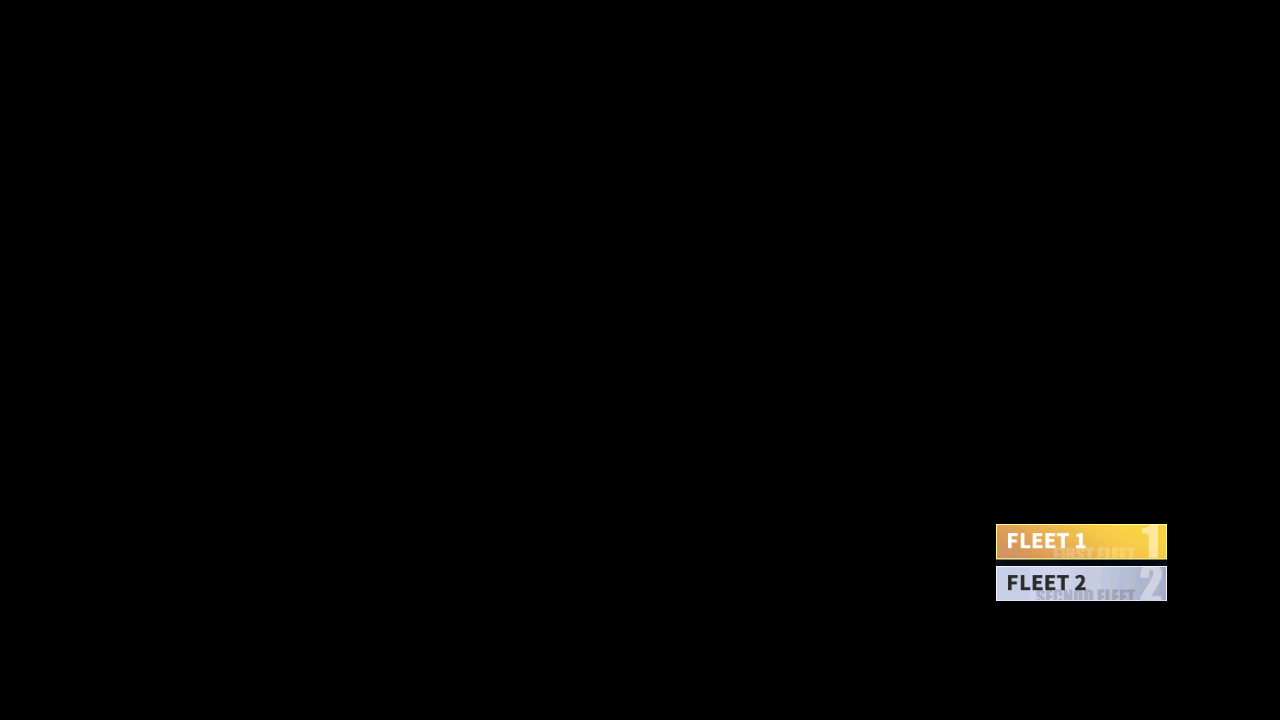
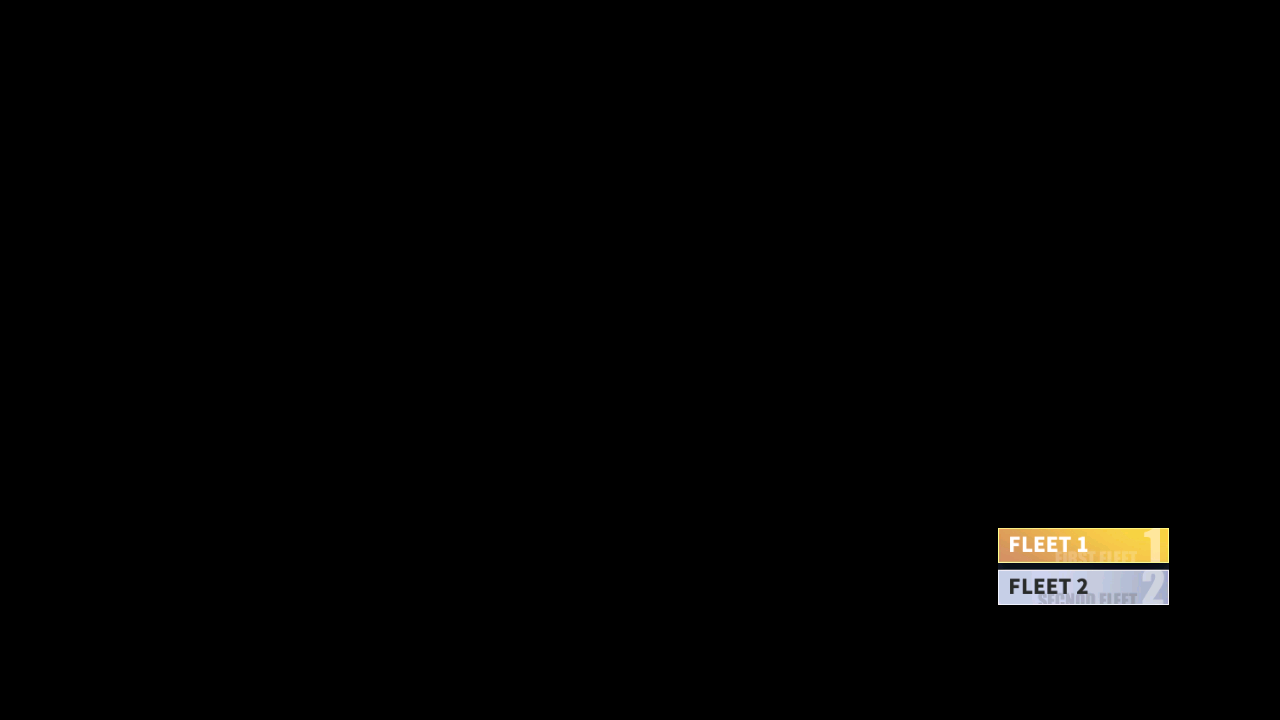
Fix: [EN] sub fleet not handled, map/SUBMARINE_* assets updated

Changed region(s): [[0.7812, 0.7028, 0.9375, 0.8556]]

diff --git a/module/map/assets.py b/module/map/assets.py
@@ -21,9 +21,9 @@ MAP_CAT_ATTACK = Button(area={'cn': (1237, 103, 1252, 153), 'en': (1237, 103, 12
 MAP_OFFENSIVE = Button(area={'cn': (1148, 653, 1262, 705), 'en': (1147, 652, 1263, 701), 'jp': (1147, 652, 1263, 706), 'tw': (1148, 653, 1262, 705)}, color={'cn': (234, 180, 108), 'en': (234, 183, 108), 'jp': (233, 184, 105), 'tw': (234, 180, 108)}, button={'cn': (1148, 653, 1262, 705), 'en': (1147, 652, 1263, 701), 'jp': (1147, 652, 1263, 706), 'tw': (1148, 653, 1262, 705)}, file={'cn': './assets/cn/map/MAP_OFFENSIVE.png', 'en': './assets/en/map/MAP_OFFENSIVE.png', 'jp': './assets/jp/map/MAP_OFFENSIVE.png', 'tw': './assets/tw/map/MAP_OFFENSIVE.png'})
 MAP_PREPARATION = Button(area={'cn': (854, 488, 1052, 548), 'en': (852, 489, 1054, 553), 'jp': (850, 485, 1051, 548), 'tw': (854, 488, 1052, 548)}, color={'cn': (236, 186, 115), 'en': (234, 179, 93), 'jp': (232, 181, 101), 'tw': (236, 186, 115)}, button={'cn': (854, 488, 1052, 548), 'en': (852, 489, 1054, 553), 'jp': (850, 485, 1051, 548), 'tw': (854, 488, 1052, 548)}, file={'cn': './assets/cn/map/MAP_PREPARATION.png', 'en': './assets/en/map/MAP_PREPARATION.png', 'jp': './assets/jp/map/MAP_PREPARATION.png', 'tw': './assets/tw/map/MAP_PREPARATION.png'})
 MAP_PREPARATION_CANCEL = Button(area={'cn': (234, 12, 278, 47), 'en': (234, 12, 278, 47), 'jp': (234, 12, 278, 47), 'tw': (234, 12, 278, 47)}, color={'cn': (45, 46, 69), 'en': (45, 46, 69), 'jp': (45, 46, 69), 'tw': (45, 46, 69)}, button={'cn': (234, 12, 278, 47), 'en': (234, 12, 278, 47), 'jp': (234, 12, 278, 47), 'tw': (234, 12, 278, 47)}, file={'cn': './assets/cn/map/MAP_PREPARATION_CANCEL.png', 'en': './assets/en/map/MAP_PREPARATION_CANCEL.png', 'jp': './assets/jp/map/MAP_PREPARATION_CANCEL.png', 'tw': './assets/tw/map/MAP_PREPARATION_CANCEL.png'})
-SUBMARINE_BAR = Button(area={'cn': (1015, 525, 1186, 602), 'en': (996, 524, 1167, 601), 'jp': (998, 528, 1169, 605), 'tw': (998, 528, 1169, 605)}, color={'cn': (193, 178, 146), 'en': (193, 177, 144), 'jp': (191, 176, 145), 'tw': (192, 177, 145)}, button={'cn': (1015, 525, 1186, 602), 'en': (996, 524, 1167, 601), 'jp': (998, 528, 1169, 605), 'tw': (998, 528, 1169, 605)}, file={'cn': './assets/cn/map/SUBMARINE_BAR.png', 'en': './assets/en/map/SUBMARINE_BAR.png', 'jp': './assets/jp/map/SUBMARINE_BAR.png', 'tw': './assets/tw/map/SUBMARINE_BAR.png'})
-SUBMARINE_CHOOSE = Button(area={'cn': (1026, 448, 1088, 505), 'en': (1004, 447, 1067, 504), 'jp': (1008, 450, 1072, 508), 'tw': (1009, 451, 1071, 508)}, color={'cn': (200, 157, 99), 'en': (197, 148, 82), 'jp': (197, 157, 101), 'tw': (209, 165, 104)}, button={'cn': (1026, 448, 1088, 505), 'en': (1004, 447, 1067, 504), 'jp': (1008, 450, 1072, 508), 'tw': (1009, 451, 1071, 508)}, file={'cn': './assets/cn/map/SUBMARINE_CHOOSE.png', 'en': './assets/en/map/SUBMARINE_CHOOSE.png', 'jp': './assets/jp/map/SUBMARINE_CHOOSE.png', 'tw': './assets/tw/map/SUBMARINE_CHOOSE.png'})
-SUBMARINE_CLEAR = Button(area={'cn': (1109, 448, 1170, 505), 'en': (1090, 447, 1153, 504), 'jp': (1092, 450, 1151, 508), 'tw': (1091, 451, 1153, 508)}, color={'cn': (153, 153, 154), 'en': (137, 138, 140), 'jp': (148, 149, 151), 'tw': (154, 154, 156)}, button={'cn': (1109, 448, 1170, 505), 'en': (1090, 447, 1153, 504), 'jp': (1092, 450, 1151, 508), 'tw': (1091, 451, 1153, 508)}, file={'cn': './assets/cn/map/SUBMARINE_CLEAR.png', 'en': './assets/en/map/SUBMARINE_CLEAR.png', 'jp': './assets/jp/map/SUBMARINE_CLEAR.png', 'tw': './assets/tw/map/SUBMARINE_CLEAR.png'})
+SUBMARINE_BAR = Button(area={'cn': (1015, 525, 1186, 602), 'en': (998, 528, 1169, 605), 'jp': (998, 528, 1169, 605), 'tw': (998, 528, 1169, 605)}, color={'cn': (193, 178, 146), 'en': (192, 177, 145), 'jp': (191, 176, 145), 'tw': (192, 177, 145)}, button={'cn': (1015, 525, 1186, 602), 'en': (998, 528, 1169, 605), 'jp': (998, 528, 1169, 605), 'tw': (998, 528, 1169, 605)}, file={'cn': './assets/cn/map/SUBMARINE_BAR.png', 'en': './assets/en/map/SUBMARINE_BAR.png', 'jp': './assets/jp/map/SUBMARINE_BAR.png', 'tw': './assets/tw/map/SUBMARINE_BAR.png'})
+SUBMARINE_CHOOSE = Button(area={'cn': (1026, 448, 1088, 505), 'en': (1008, 451, 1071, 508), 'jp': (1008, 450, 1072, 508), 'tw': (1009, 451, 1071, 508)}, color={'cn': (200, 157, 99), 'en': (197, 148, 83), 'jp': (197, 157, 101), 'tw': (209, 165, 104)}, button={'cn': (1026, 448, 1088, 505), 'en': (1008, 451, 1071, 508), 'jp': (1008, 450, 1072, 508), 'tw': (1009, 451, 1071, 508)}, file={'cn': './assets/cn/map/SUBMARINE_CHOOSE.png', 'en': './assets/en/map/SUBMARINE_CHOOSE.png', 'jp': './assets/jp/map/SUBMARINE_CHOOSE.png', 'tw': './assets/tw/map/SUBMARINE_CHOOSE.png'})
+SUBMARINE_CLEAR = Button(area={'cn': (1109, 448, 1170, 505), 'en': (1091, 451, 1153, 508), 'jp': (1092, 450, 1151, 508), 'tw': (1091, 451, 1153, 508)}, color={'cn': (153, 153, 154), 'en': (139, 140, 142), 'jp': (148, 149, 151), 'tw': (154, 154, 156)}, button={'cn': (1109, 448, 1170, 505), 'en': (1091, 451, 1153, 508), 'jp': (1092, 450, 1151, 508), 'tw': (1091, 451, 1153, 508)}, file={'cn': './assets/cn/map/SUBMARINE_CLEAR.png', 'en': './assets/en/map/SUBMARINE_CLEAR.png', 'jp': './assets/jp/map/SUBMARINE_CLEAR.png', 'tw': './assets/tw/map/SUBMARINE_CLEAR.png'})
 SUBMARINE_IN_USE = Button(area={'cn': (453, 438, 538, 523), 'en': (453, 438, 538, 523), 'jp': (453, 438, 538, 523), 'tw': (453, 438, 538, 523)}, color={'cn': (118, 114, 124), 'en': (118, 114, 124), 'jp': (118, 114, 124), 'tw': (118, 114, 124)}, button={'cn': (453, 438, 538, 523), 'en': (453, 438, 538, 523), 'jp': (453, 438, 538, 523), 'tw': (453, 438, 538, 523)}, file={'cn': './assets/cn/map/SUBMARINE_IN_USE.png', 'en': './assets/en/map/SUBMARINE_IN_USE.png', 'jp': './assets/jp/map/SUBMARINE_IN_USE.png', 'tw': './assets/tw/map/SUBMARINE_IN_USE.png'})
 SWITCH_OVER = Button(area={'cn': (947, 654, 1118, 706), 'en': (945, 647, 1119, 702), 'jp': (946, 653, 1119, 707), 'tw': (947, 654, 1118, 706)}, color={'cn': (144, 158, 198), 'en': (139, 154, 194), 'jp': (142, 156, 195), 'tw': (144, 158, 198)}, button={'cn': (947, 654, 1118, 706), 'en': (945, 647, 1119, 702), 'jp': (946, 653, 1119, 707), 'tw': (947, 654, 1118, 706)}, file={'cn': './assets/cn/map/SWITCH_OVER.png', 'en': './assets/en/map/SWITCH_OVER.png', 'jp': './assets/jp/map/SWITCH_OVER.png', 'tw': './assets/tw/map/SWITCH_OVER.png'})
 WITHDRAW = Button(area={'cn': (749, 654, 921, 707), 'en': (748, 652, 922, 702), 'jp': (748, 653, 921, 707), 'tw': (749, 654, 921, 707)}, color={'cn': (213, 124, 124), 'en': (211, 124, 124), 'jp': (210, 122, 122), 'tw': (213, 124, 124)}, button={'cn': (749, 654, 921, 707), 'en': (748, 652, 922, 702), 'jp': (748, 653, 921, 707), 'tw': (749, 654, 921, 707)}, file={'cn': './assets/cn/map/WITHDRAW.png', 'en': './assets/en/map/WITHDRAW.png', 'jp': './assets/jp/map/WITHDRAW.png', 'tw': './assets/tw/map/WITHDRAW.png'})
